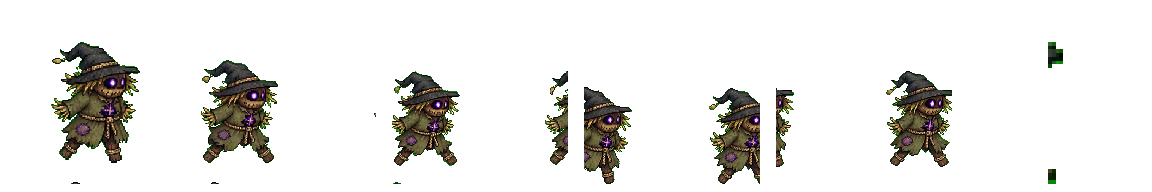
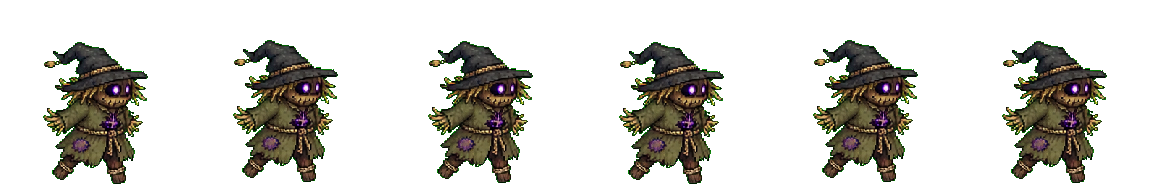
fix(demo64): rebuild Cursed Scarecrow animations

diff --git a/public/demo64/game.js b/public/demo64/game.js
@@ -1,7 +1,7 @@
 /* GameRPG loader */
 (function () {
   const script = document.createElement('script');
-  script.src = './game-original.js?v=cursed-scarecrow-v1';
+  script.src = './game-original.js?v=cursed-scarecrow-v2';
   script.onerror = () => console.error('[GameRPG] Falha ao carregar o jogo principal.');
   document.head.appendChild(script);
 })();

diff --git a/public/demo64/index.html b/public/demo64/index.html
@@ -557,6 +557,6 @@ addEventListener('keydown', e => {
   sync();
 })();
 </script>
-<script src="game.js?v=cursed-scarecrow-v1"></script>
+<script src="game.js?v=cursed-scarecrow-v2"></script>
 </body>
 </html>
